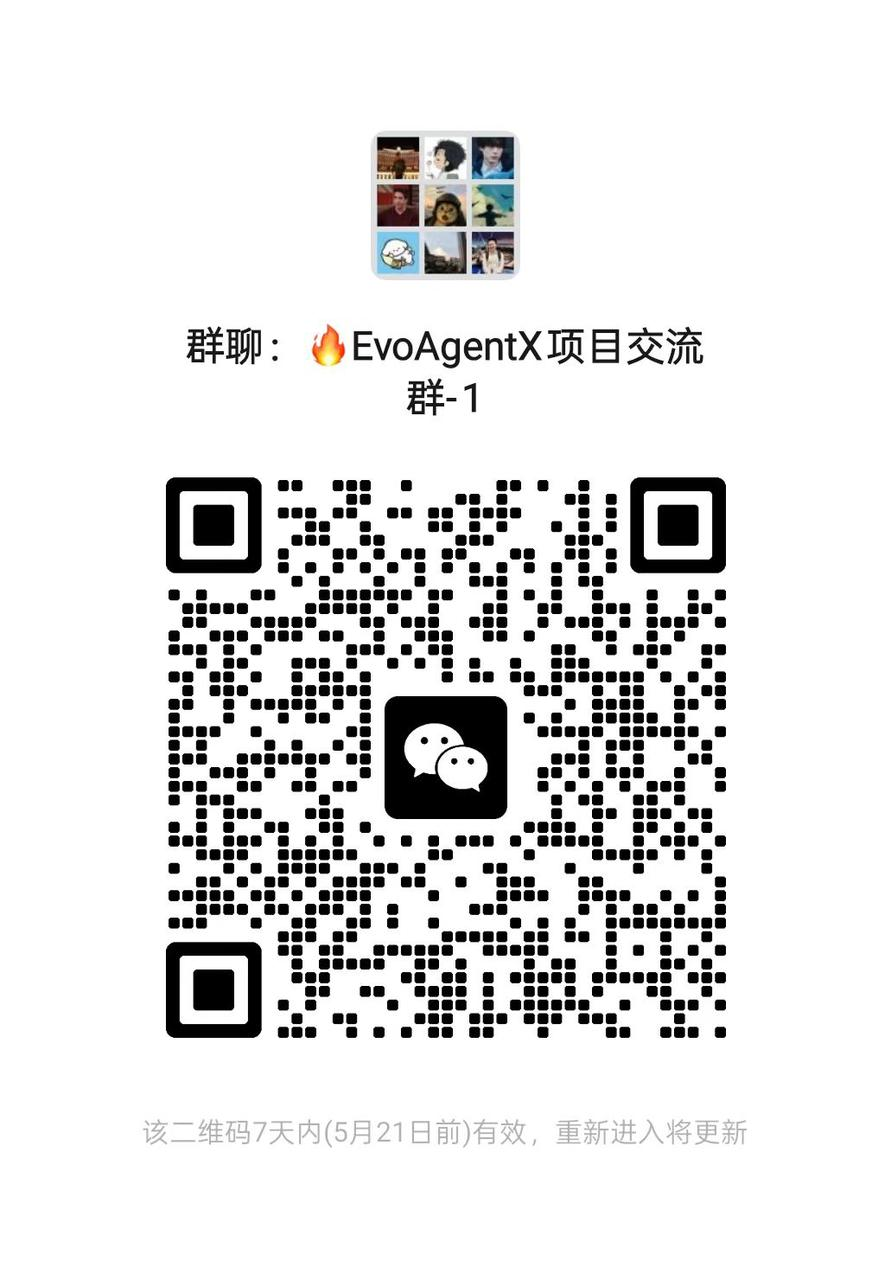
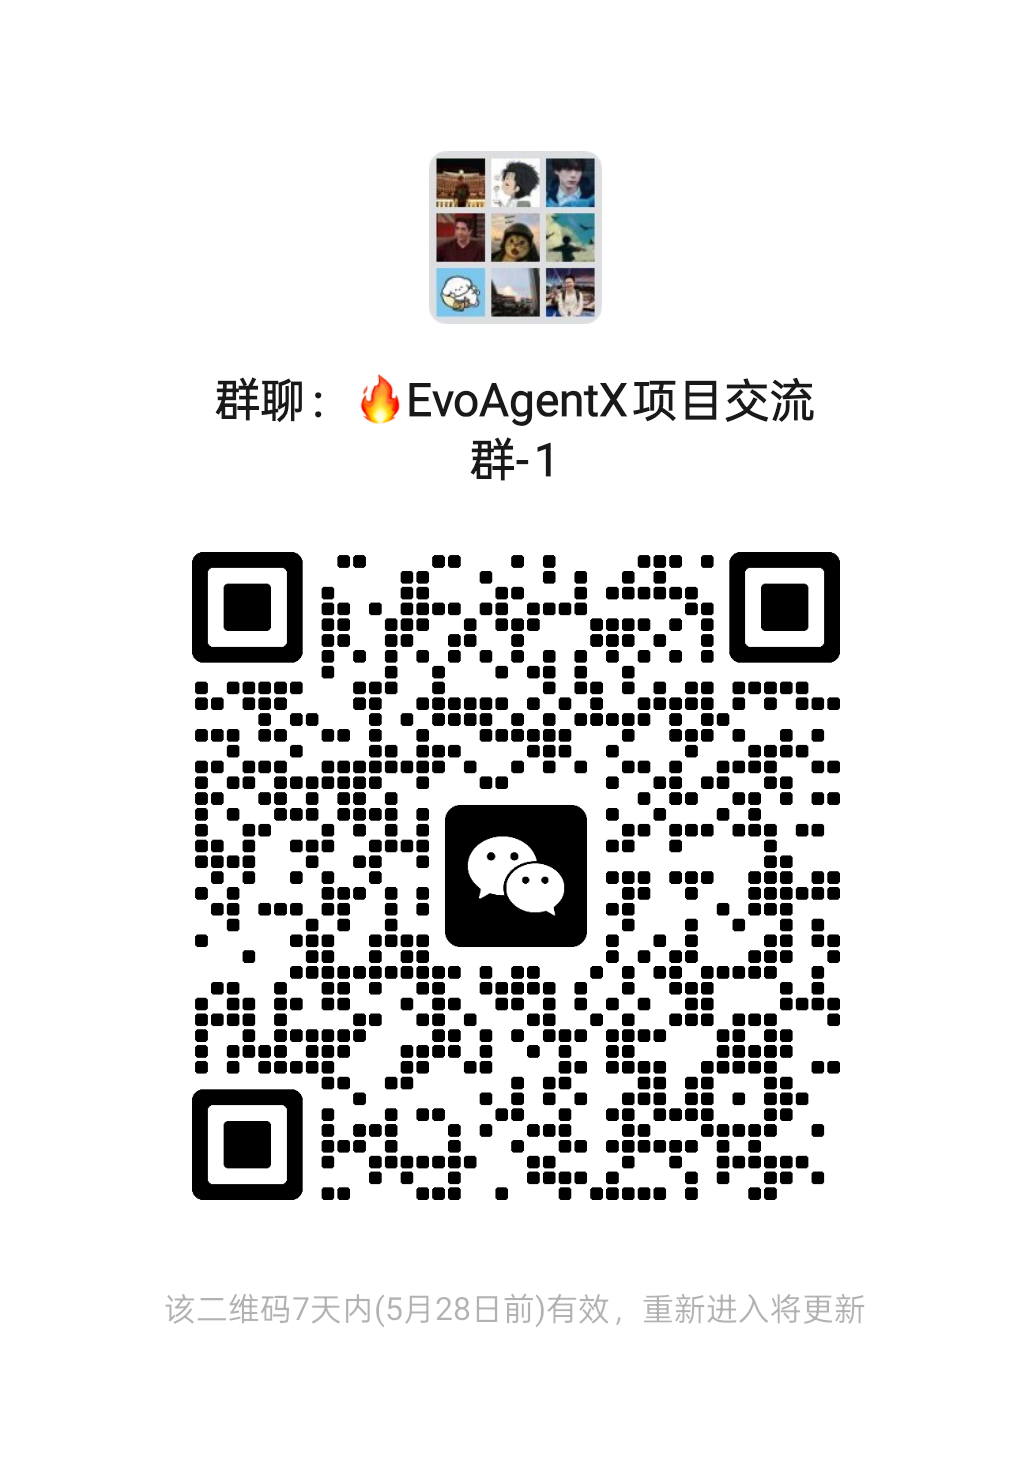
update billbill and wechat QR code(28/05)

Changed region(s): [[0.1818, 0.375, 0.8182, 0.8125], [0.3333, 0.25, 0.3939, 0.2812], [0.4242, 0.875, 0.4545, 0.9062]]

diff --git a/README.md b/README.md
@@ -208,8 +208,13 @@ You can also:
 
 
 [![Watch on YouTube](https://img.shields.io/badge/-Watch%20on%20YouTube-red?logo=youtube&labelColor=grey)](https://www.youtube.com/watch?v=Wu0ZydYDqgg)
+[![Watch on Bilibili](https://img.shields.io/badge/-Watch%20on%20Bilibili-00A1D6?logo=bilibili&labelColor=white)](https://www.bilibili.com/video/BV1mEJizyE7H/?vd_source=02f8f3a7c8865b3af6378d9680393f5a)
 
-https://github.com/user-attachments/assets/3d899bad-6edc-498a-8c72-ce2107c13da1.mp4
+<div align="center">
+  <video src="https://github.com/user-attachments/assets/3d899bad-6edc-498a-8c72-ce2107c13da1.mp4" autoplay loop muted playsinline width="600">
+    Your browser does not support the video tag.
+  </video>
+</div>
 
 In this demo, we showcase the workflow generation and execution capabilities of EvoAgentX through two examples:
 

diff --git a/README-zh.md b/README-zh.md
@@ -208,6 +208,7 @@ print(output)
 
 
 [![在YouTube上观看](https://img.shields.io/badge/-在YouTube上观看-red?logo=youtube&labelColor=grey)](https://www.youtube.com/watch?v=Wu0ZydYDqgg)
+[![在bilibili上观看](https://img.shields.io/badge/-在bilibili上观看-00A1D6?logo=bilibili&labelColor=white)](https://www.bilibili.com/video/BV1mEJizyE7H/?vd_source=02f8f3a7c8865b3af6378d9680393f5a)
 
 <div align="center">
   <video src="https://github.com/user-attachments/assets/3d899bad-6edc-498a-8c72-ce2107c13da1.mp4" autoplay loop muted playsinline width="600">
